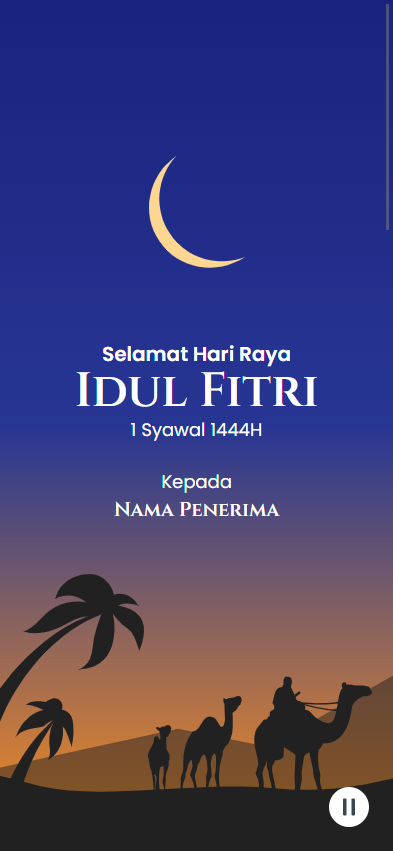
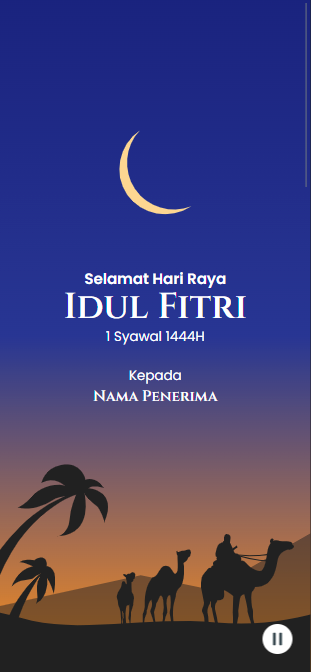
Update template preview

diff --git a/src/assets/theme/index.js b/src/assets/theme/index.js
@@ -1,7 +1,7 @@
 import CloudyAfternoon from "./CloudyAfternoon.png";
 import CloudyEvening from "./CloudyEvening.png";
 import DesertAmber from "./DesertAmber.png";
-import DesertPink from "./DesertPink.png";
+import DesertPurple from "./DesertPurple.png";
 import FlatAmber from "./FlatAmber.png";
 import FlatCyan from "./FlatCyan.png";
 import FrameBlue from "./FrameBlue.png";
@@ -18,7 +18,7 @@ const PREVIEW_IMAGES = {
   CloudyAfternoon,
   CloudyEvening,
   DesertAmber,
-  DesertPink,
+  DesertPurple,
   FlatAmber,
   FlatCyan,
   FrameBlue,

diff --git a/src/configs/template.js b/src/configs/template.js
@@ -121,7 +121,7 @@ export const DESERT = {
       name: "Purple",
       variant: "purple",
       color: "bg-indigo-900",
-      image: PREVIEW_IMAGES.DesertPink,
+      image: PREVIEW_IMAGES.DesertPurple,
     },
     {
       name: "Amber",
